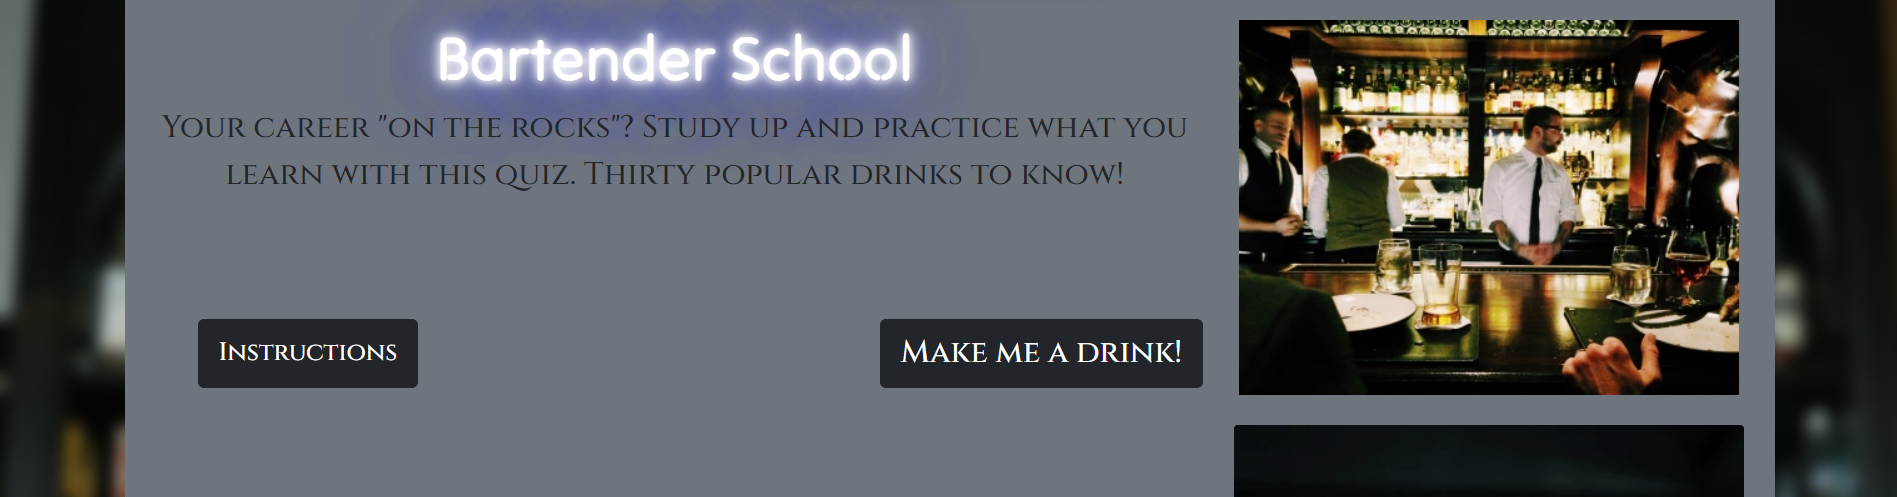
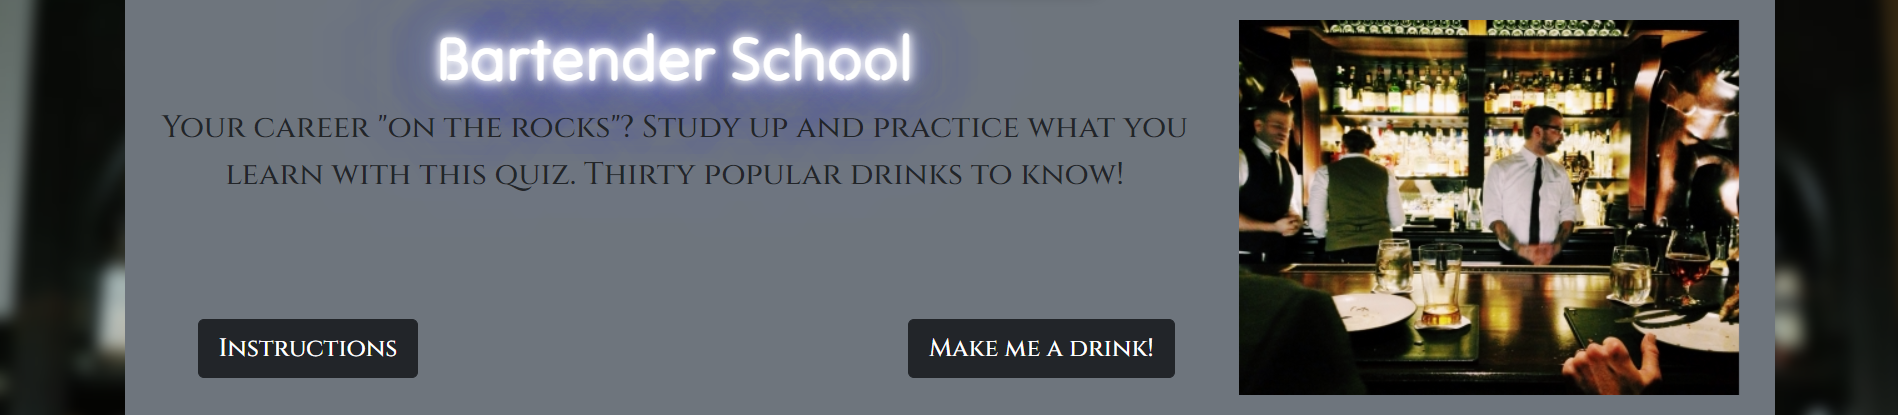
updated html semantics

diff --git a/index.html b/index.html
@@ -16,7 +16,7 @@
 
 <body
    style="background-image: url('assets/images/wallpaper.png'); background-attachment: fixed; min-height: 100%; min-width: 100%; background-size:100% 100%; background-repeat: no-repeat;  overflow-x: hidden;">
-   <div class="container bg-secondary">
+   <main class="container bg-secondary">
       <!--Row 1-->
       <div class="row pt-3">
 
@@ -70,7 +70,7 @@
             </div>
          </div>
          <!--Caurosel-->
-         <div class="col-md-4 d-none d-lg-block">
+         <aside class="col-md-4 d-none d-lg-block">
             <div id="carousel" class="carousel slide d-sm-none d-md-block" data-bs-ride="carousel">
                <div class="carousel-inner">
                   <div class="carousel-item active">
@@ -87,10 +87,10 @@
                   </div>
                </div>
             </div>
-         </div>
+         </aside>
       </div>
       <!--Row 2-->
-      <div class="row align-items-end mx-auto">
+      <section class="row align-items-end mx-auto">
          <div class="bg-secondary col-md-8 mt-5 p-5">
             <!--Ingredients div-->
             <div id="ingredients">
@@ -142,12 +142,12 @@
                </div>
             </div>
          </div>
-      </div>
+      </section>
 
       <!--Row 3-->
-      <div class="row">
+      <section class="row">
          <!-- Job Cards -->
-         <div class="col-md-3 d-none d-lg-block"> <!-- Adding others to col-md-3-->
+         <article class="col-md-3 d-none d-lg-block"> <!-- Adding others to col-md-3-->
             <div class="card">
                <img class="card-img-top img-fluid" src="assets/images/job1.png" alt="Image of a barback">
                <div class="card-body">
@@ -155,9 +155,9 @@
                   <p class="card-text cinzel">A barback is the assistant to the Bartender.</p>
                </div>
             </div>
-         </div>
+         </article>
 
-         <div class="col-md-3 d-none d-lg-block">
+         <article class="col-md-3 d-none d-lg-block">
             <div class="card">
                <img class="card-img-top" src="assets/images/job2.png" alt="Image of a bartender">
                <div class="card-body">
@@ -165,9 +165,9 @@
                   <p class="card-text cinzel">Bartenders mix and serve drink orders to patrons.</p>
                </div>
             </div>
-         </div>
+         </article>
 
-         <div class="col-md-3 d-none d-lg-block">
+         <article class="col-md-3 d-none d-lg-block">
             <div class="card">
                <img class="card-img-top" src="assets/images/job3.png" alt="Image of a bar manager">
                <div class="card-body">
@@ -175,7 +175,7 @@
                   <p class="card-text cinzel">The Bar Manager is in charge of the bar and crew.</p>
                </div>
             </div>
-         </div>
+         </article>
 
          <!-- Review Mistakes Section -->
          <div class="col-md-3">
@@ -245,8 +245,8 @@
                </div>
             </div>
          </div>
-      </div>
-   </div>
+      </section>
+   </main>
       <script src="https://cdn.jsdelivr.net/npm/dayjs@1.11.3/dayjs.min.js"></script>
       <script src="https://cdn.jsdelivr.net/npm/bootstrap@5.3.2/dist/js/bootstrap.bundle.min.js"></script>
       <script src="https://code.jquery.com/jquery-3.5.1.min.js"></script>
